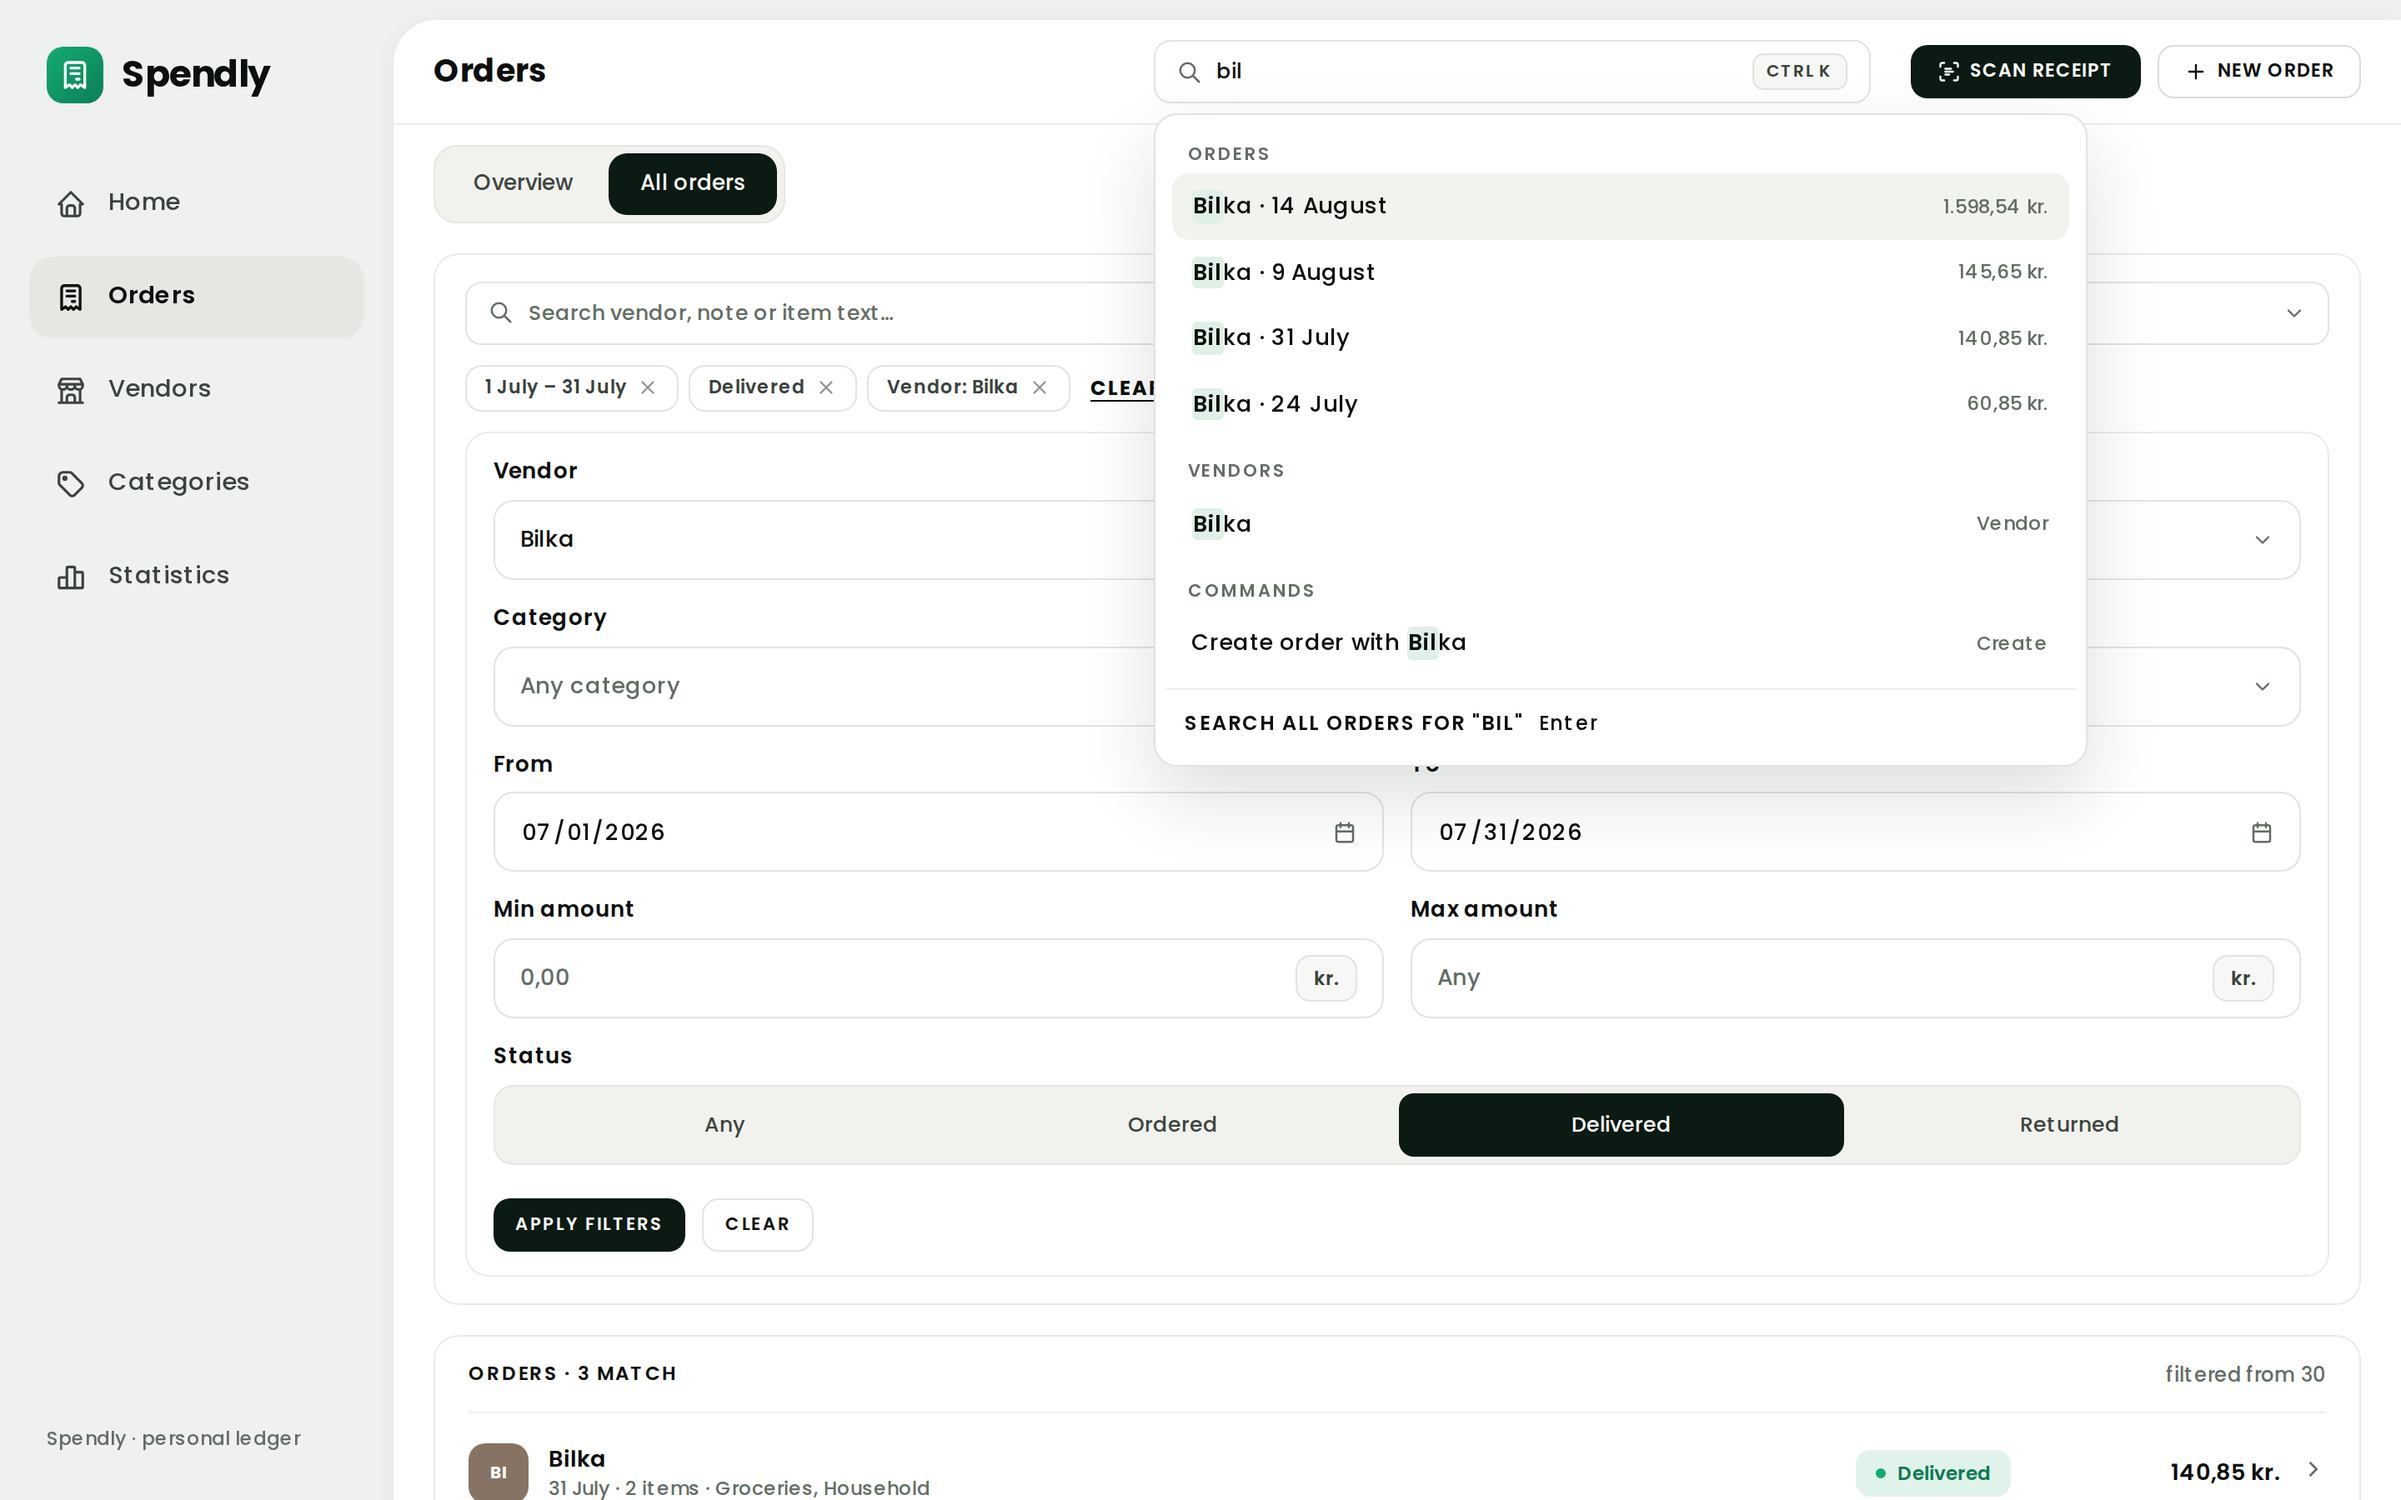
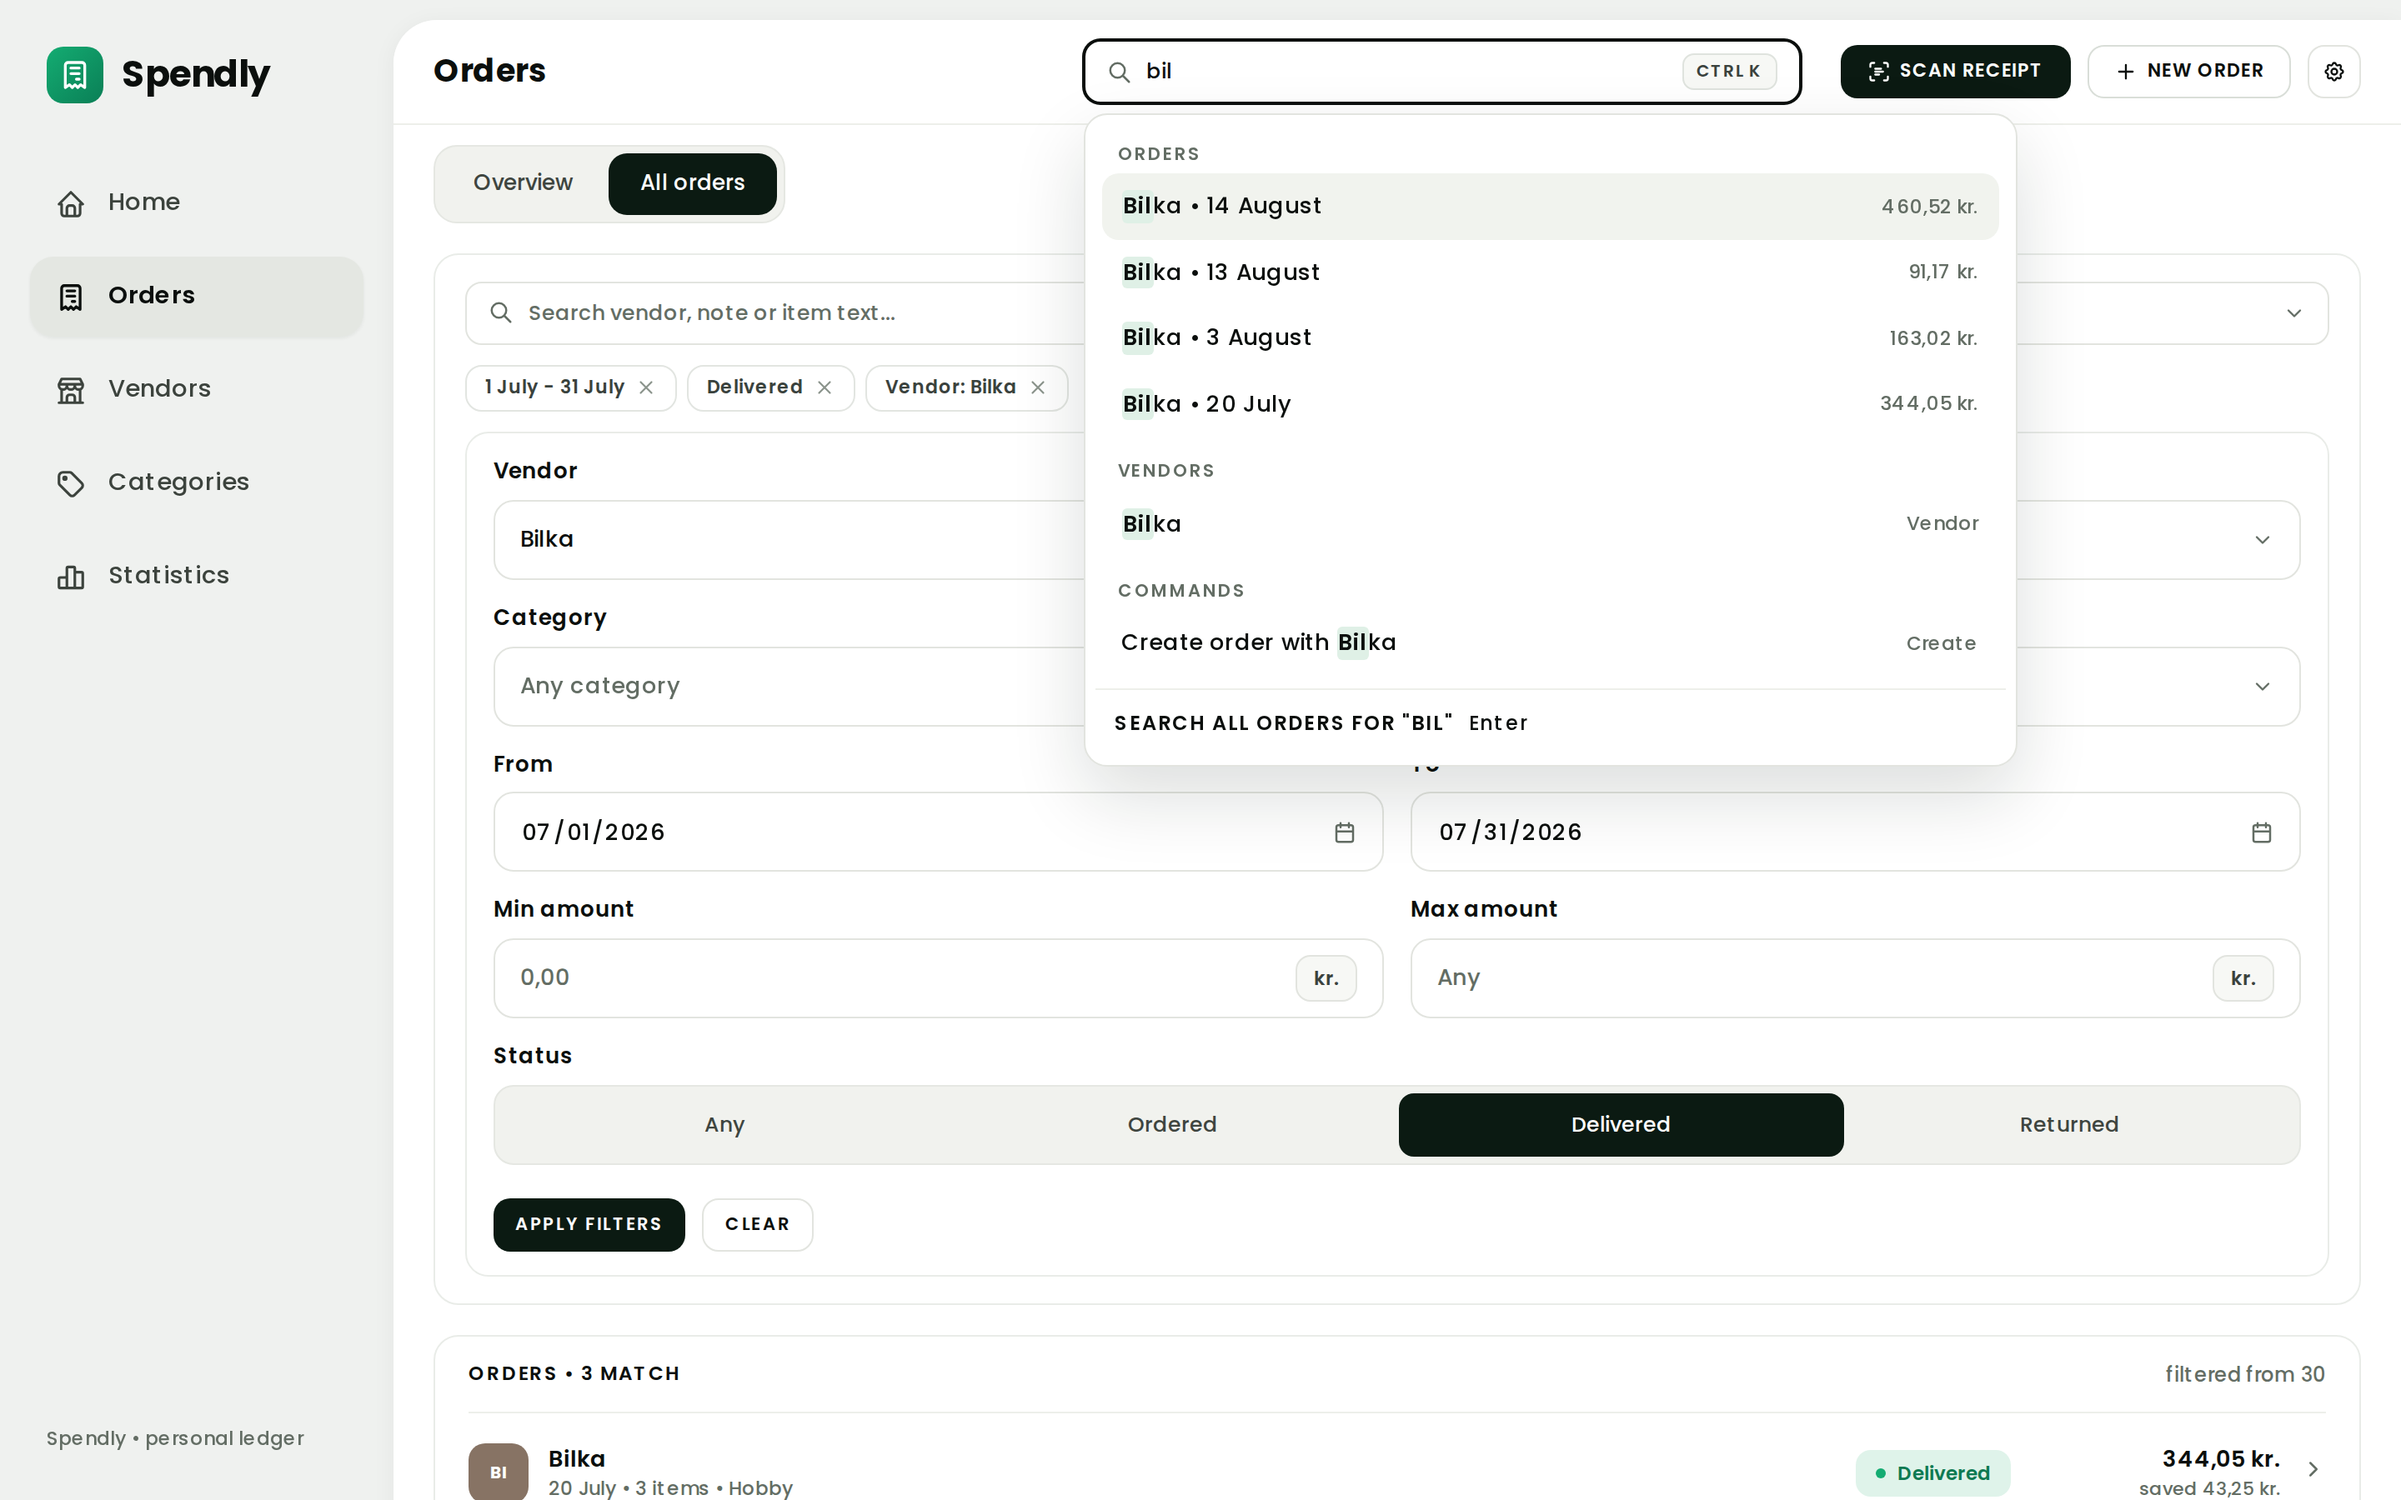
Re-render the three docs/ screenshots; commit the harness that drives them
The two dated shots had drifted -- home.png and phone.png carry the current
month and a dataset the demo fill re-rolls every day -- and all three predate
two pieces of app chrome: the settings gear in the top bar, and the active
edge an open combobox now wears (app.css .combobox.is-open > .field-shell),
both visible in all-orders.png's open finder.

Rendered on this container (Chromium 141.0.7390.37 under Playwright 1.56.1,
the pair the screenshot notes name as reproducing docs/ at 0). Unchanged
source against the old files first, to attribute the drift before replacing
them: 307,716 of 5,184,000 on home.png, 403,963 on all-orders.png, 90,093 of
1,035,840 on phone.png -- the calendar and the two chrome changes, not the
change under test. Each new file then reproduced twice at 0 differing pixels
run-to-run before being committed.

The harness lands as react/scripts/regen-docs.mjs -- the name the working
notes already used for it, with nothing on disk behind it. It registers a
fresh account, fills it with {seed: 1, months: 2, orders: 30} (re-picked
this render-day so the all-orders state has its 3 July Bilka Delivered
matches; the fill is a function of (params, today), so a later re-render
re-picks), drives each shot into its state -- FILTERS open, the vendor
filter by the id read back from /api/vendors, the finder holding 'bil' --
and diffs its renders against a reference in-browser via canvas. The
all-orders state note in CLAUDE.md now names the two traps that cost this
[…]

diff --git a/CLAUDE.md b/CLAUDE.md
@@ -124,10 +124,18 @@ box, not about any change.
   that a diff is the calendar rather than the code.
 - **`all-orders.png` holds three pieces of state at once**, and each one has to be driven:
   the FILTERS panel is open, which is no longer the state the page loads in; the list is filtered to
-  `?vendor=bilka&status=Delivered&from=2026-07-01&to=2026-07-31`, 3 matching; and the global finder
+  Bilka + Delivered + 1-31 July 2026, 3 matching; and the global finder
   (`input[aria-label="Search everything"]`) has `bil` typed into it, open. Render it closed or drop
   any one of the three and the comparison reads like a rasterisation-floor mismatch and is not one --
   drive each shot into the state it holds before believing the number, in either direction.
+  `react/scripts/regen-docs.mjs` drives all three shots into their states and is the canonical
+  record of how. Two traps it already steps around: the server filters by `vendorId` (an exact,
+  per-account generated id -- read it back from `/api/vendors`; it ignores an unknown `vendor=`
+  param, so a hand-built `?vendor=bilka` URL quietly matches nothing), and the demo fill is a
+  function of (params, today) -- the whole year re-rolls daily, so the fill parameters that gave
+  the committed shot its 3 matches may give 0 on a later day and have to be re-picked then. The
+  params behind the current shots are in the script; a count in the render is checked against the
+  API before it is believed.
 - **If a browser download 403s, it is egress policy and not the CDN.** `playwright install` fails
   with a bare `Download failure, code=1`, which names no host and no cause; guessing one from it is
   guessing. `curl -sS "$HTTPS_PROXY/__agentproxy/status"` lists `recentRelayFailures` with the host
